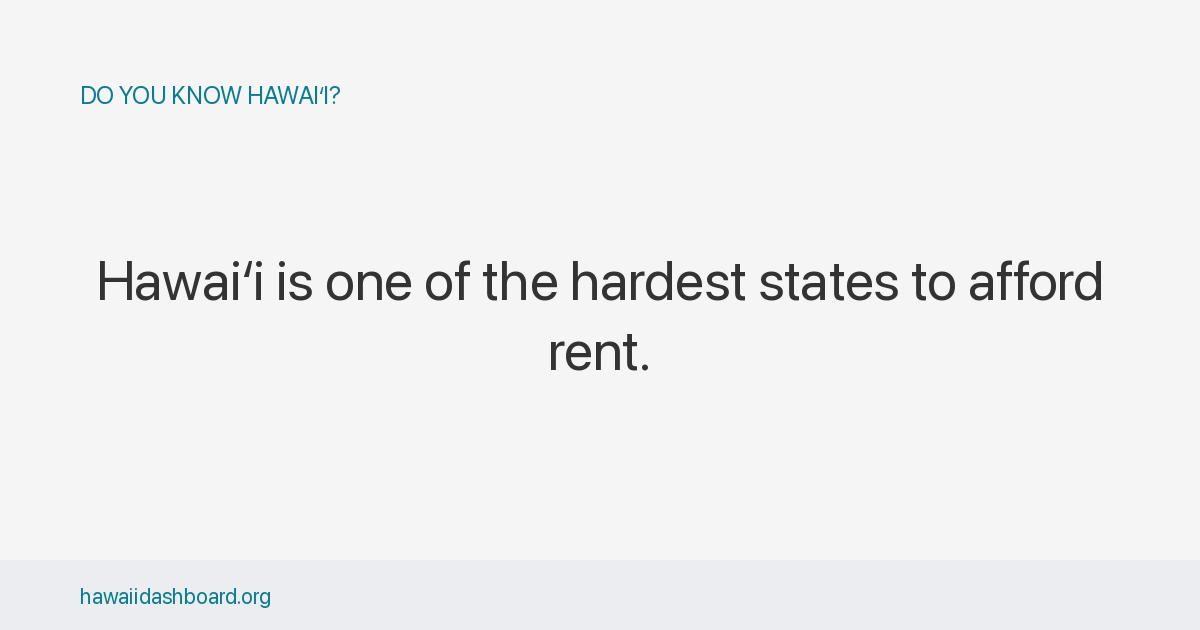
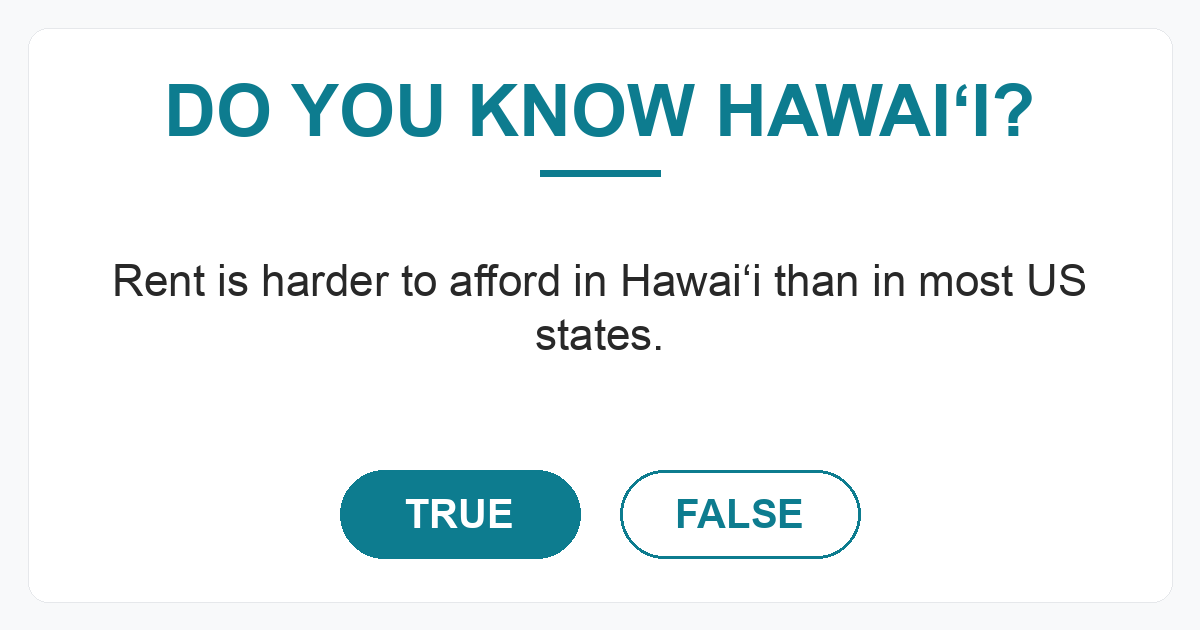
QOTD q006: rewrite to V1 framing; revert q005 to original
q006 was the intended target for the rewording, not q005. This commit:

- Reverts q005 claim to the original cost-burdened wording.
- Updates q006 from "Hawaiʻi is one of the hardest states to afford
  rent" (V4, top-ranked framing) to "Rent is harder to afford in
  Hawaiʻi than in most US states" (V1, comparator framing).
- Updates q006's answer to V1 framing — the old "#4 highest among 50
  states" answer no longer matches the new claim shape.
- Variant changed V4 → V1 for threshold-check consistency. Data passes
  both rules (rank #4, 11.3% gap above the V1 ≥10% floor).

diff --git a/q/q006/index.html b/q/q006/index.html
@@ -13,7 +13,7 @@
   <meta name="twitter:card" content="summary_large_image">
   <meta name="twitter:title" content="Do you know Hawaiʻi?">
   <meta name="twitter:image" content="https://hawaiidashboard.org/assets/og/q/hawaii-is-one-of-the-hardest-states-to-afford-rent.png">
-  <meta name="description" content="Hawaiʻi is one of the hardest states to afford rent.">
+  <meta name="description" content="Rent is harder to afford in Hawaiʻi than in most US states.">
   <link rel="canonical" href="https://hawaiidashboard.org/q/q006/">
   <script>window.location.replace("/?from_q=q006");</script>
   <meta http-equiv="refresh" content="0;url=https://hawaiidashboard.org/?from_q=q006">
@@ -22,8 +22,8 @@
   <p>Redirecting to <a href="https://hawaiidashboard.org/?from_q=q006">Do you know Hawaiʻi?</a>&hellip;</p>
   <article style="max-width:640px;margin:2rem auto;padding:0 1rem;font-family:-apple-system,BlinkMacSystemFont,'Segoe UI',sans-serif;color:#333;line-height:1.55;">
     <p style="color:#888;font-size:0.875rem;text-transform:uppercase;letter-spacing:0.05em;margin:0;">Do you know Hawaiʻi?</p>
-    <p style="margin:0.25rem 0 1rem;font-size:1.25rem;font-weight:600;">Hawaiʻi is one of the hardest states to afford rent.</p>
-    <p><strong>True.</strong> Hawaiʻi has the #4 highest value among 50 states in 2024 (55.0%).</p>
+    <p style="margin:0.25rem 0 1rem;font-size:1.25rem;font-weight:600;">Rent is harder to afford in Hawaiʻi than in most US states.</p>
+    <p><strong>True.</strong> In 2024, 55.0% of Hawaiʻi renter households spent over 30% of income on rent, versus 49.4% in most states.</p>
     <p style="margin-top:1.5rem;"><a href="/r/renter_cost_burden_pct/">See the data &rarr;</a></p>
   </article>
 </body>

diff --git a/q/q005/index.html b/q/q005/index.html
@@ -13,7 +13,7 @@
   <meta name="twitter:card" content="summary_large_image">
   <meta name="twitter:title" content="Do you know Hawaiʻi?">
   <meta name="twitter:image" content="https://hawaiidashboard.org/assets/og/q/most-hawaii-renters-spend-over-30-percent-on-rent.png">
-  <meta name="description" content="Rent is harder to afford in Hawaiʻi than in most US states.">
+  <meta name="description" content="More Hawaiʻi renter households are cost-burdened than in most states.">
   <link rel="canonical" href="https://hawaiidashboard.org/q/q005/">
   <script>window.location.replace("/?from_q=q005");</script>
   <meta http-equiv="refresh" content="0;url=https://hawaiidashboard.org/?from_q=q005">
@@ -22,7 +22,7 @@
   <p>Redirecting to <a href="https://hawaiidashboard.org/?from_q=q005">Do you know Hawaiʻi?</a>&hellip;</p>
   <article style="max-width:640px;margin:2rem auto;padding:0 1rem;font-family:-apple-system,BlinkMacSystemFont,'Segoe UI',sans-serif;color:#333;line-height:1.55;">
     <p style="color:#888;font-size:0.875rem;text-transform:uppercase;letter-spacing:0.05em;margin:0;">Do you know Hawaiʻi?</p>
-    <p style="margin:0.25rem 0 1rem;font-size:1.25rem;font-weight:600;">Rent is harder to afford in Hawaiʻi than in most US states.</p>
+    <p style="margin:0.25rem 0 1rem;font-size:1.25rem;font-weight:600;">More Hawaiʻi renter households are cost-burdened than in most states.</p>
     <p><strong>True.</strong> In 2024, Hawaiʻi was 55.0% versus the median of 49.4%.</p>
     <p style="margin-top:1.5rem;"><a href="/r/renter_cost_burden_pct/">See the data &rarr;</a></p>
   </article>

diff --git a/js/questions.js b/js/questions.js
@@ -141,7 +141,7 @@ const QOTD_QUESTIONS = [
   {
     "id": "q005",
     "slug": "most-hawaii-renters-spend-over-30-percent-on-rent",
-    "claim": "Rent is harder to afford in Hawaiʻi than in most US states.",
+    "claim": "More Hawaiʻi renter households are cost-burdened than in most states.",
     "correct": true,
     "answer": "In 2024, Hawaiʻi was 55.0% versus the median of 49.4%.",
     "chartUrl": "/r/renter_cost_burden_pct/",
@@ -261,14 +261,14 @@ const QOTD_QUESTIONS = [
   {
     "id": "q006",
     "slug": "hawaii-is-one-of-the-hardest-states-to-afford-rent",
-    "claim": "Hawaiʻi is one of the hardest states to afford rent.",
+    "claim": "Rent is harder to afford in Hawaiʻi than in most US states.",
     "correct": true,
-    "answer": "Hawaiʻi has the #4 highest value among 50 states in 2024 (55.0%).",
+    "answer": "In 2024, 55.0% of Hawaiʻi renter households spent over 30% of income on rent, versus 49.4% in most states.",
     "chartUrl": "/r/renter_cost_burden_pct/",
     "metric": "renter_cost_burden_pct",
     "metricLabel": "Renter Housing Cost Burden",
     "topic": "Housing & Cost of Living",
-    "variant": "V4"
+    "variant": "V1"
   },
   {
     "id": "q011",
